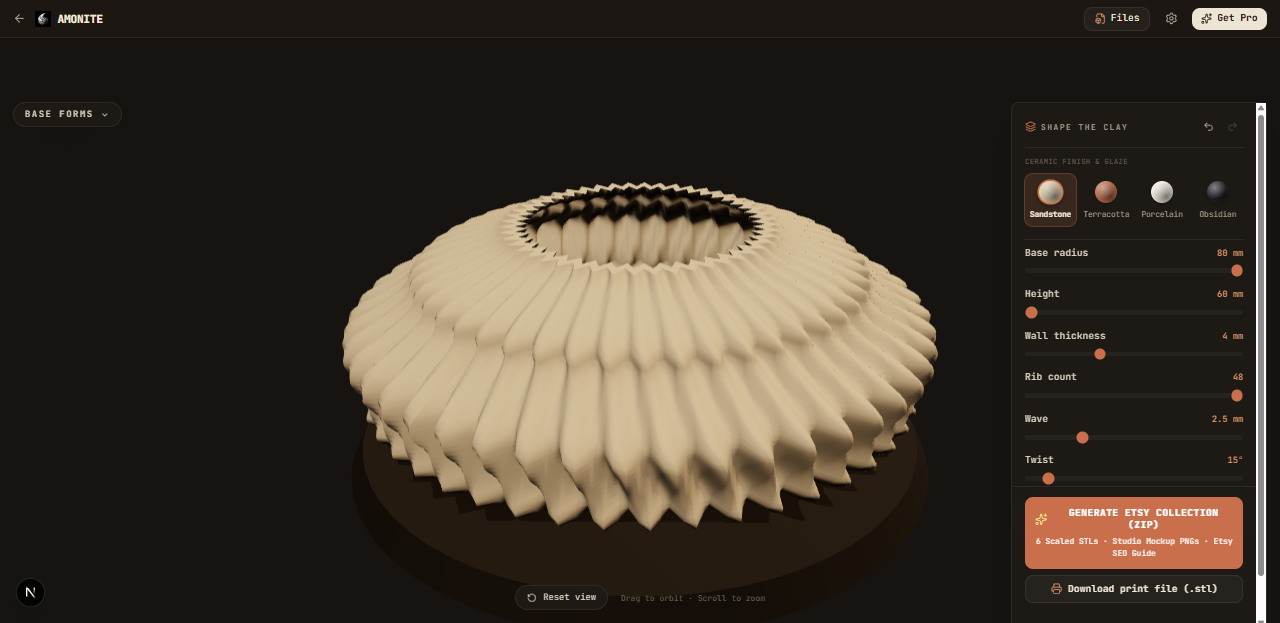
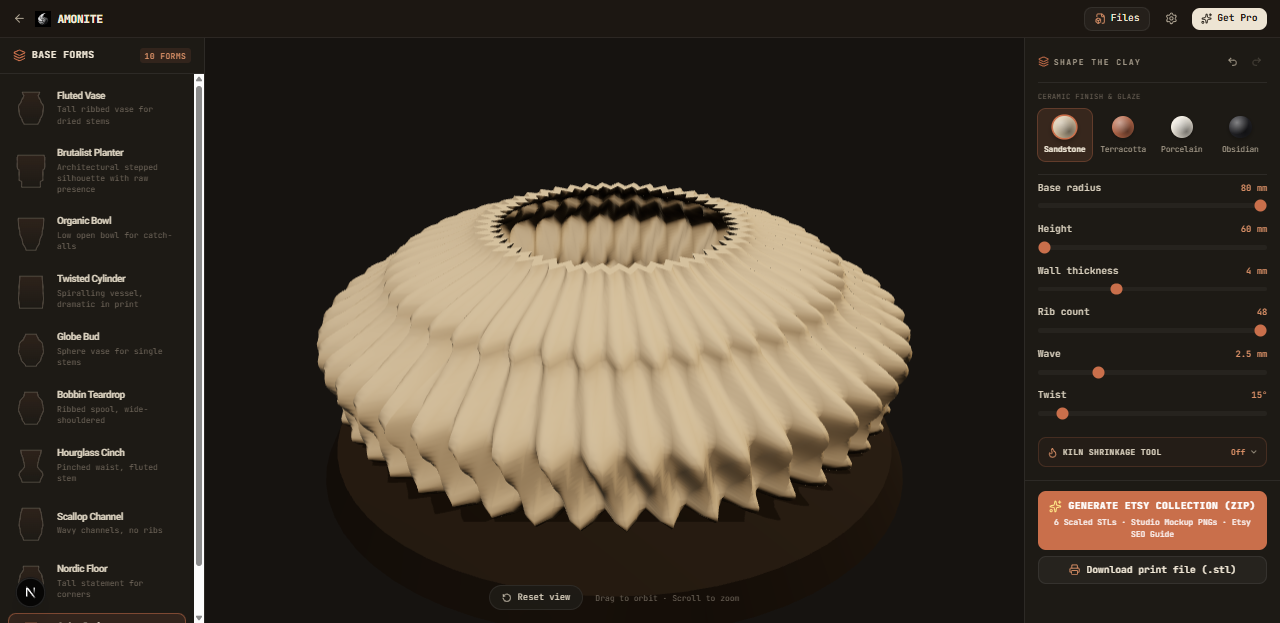
feat(studio): replace floating base forms pill with complete docked left sidebar

diff --git a/src/components/cad/vessel-archetypes.tsx b/src/components/cad/vessel-archetypes.tsx
@@ -1,7 +1,7 @@
 'use client';
 
-import React, { useState } from 'react';
-import { ChevronDown, ChevronUp } from 'lucide-react';
+import React from 'react';
+import { Layers } from 'lucide-react';
 import { useCADStore } from '@/store/cad-store';
 import { STUDIO_THEME } from '@/lib/studio-theme';
 import { VESSEL_ARCHETYPES, vesselProfileRadius } from '@/lib/vessel-geometry';
@@ -41,7 +41,7 @@ function Silhouette({ archetype, active }: { archetype: VesselArchetype; active:
   return (
     <svg
       viewBox={`0 0 ${W} ${H}`}
-      className="h-14 w-12 shrink-0 drop-shadow-sm transition-transform duration-200 group-hover:scale-105"
+      className="h-12 w-10 shrink-0 drop-shadow-sm transition-transform duration-200 group-hover:scale-105"
       aria-hidden="true"
     >
       <defs>
@@ -70,43 +70,33 @@ export default function VesselArchetypes(): React.JSX.Element {
 
   const vessel = nodes.find((n) => n.id === vesselId);
   const active = vessel?.vessel?.archetype ?? 'fluted-vase';
-  const [isOpen, setIsOpen] = useState(false);
-
-  if (!isOpen) {
-    return (
-      <button
-        type="button"
-        onClick={() => setIsOpen(true)}
-        aria-expanded={false}
-        className="flex items-center gap-2 rounded-full border px-3.5 py-1.5 font-mono text-[11px] shadow-2xl backdrop-blur-md transition-colors"
-        style={{ borderColor: t.hairline, backgroundColor: t.panelBg, color: t.inkSoft }}
-      >
-        <span className="font-semibold uppercase tracking-[0.18em]">Base forms</span>
-        <ChevronDown className="h-3 w-3" />
-      </button>
-    );
-  }
 
   return (
-    <div
-      className="w-60 rounded-lg border p-3 shadow-2xl backdrop-blur-md max-h-[calc(100vh-148px)] overflow-y-auto"
-      style={{ backgroundColor: t.panelBg, borderColor: t.hairline }}
-    >
-      <button
-        type="button"
-        onClick={() => setIsOpen(false)}
-        aria-expanded={true}
-        className="flex w-full items-center justify-between px-1 pb-2"
+    <div className="flex h-full w-full flex-col font-mono select-none">
+      {/* Sidebar Header */}
+      <div
+        className="flex items-center justify-between border-b px-4 py-3 shrink-0"
+        style={{ borderColor: t.hairline }}
       >
+        <div className="flex items-center gap-2">
+          <Layers className="h-4 w-4" style={{ color: t.accent }} />
+          <span
+            className="text-xs font-bold uppercase tracking-wider"
+            style={{ color: t.ink }}
+          >
+            Base forms
+          </span>
+        </div>
         <span
-          className="font-mono text-[10px] font-semibold uppercase tracking-[0.18em]"
-          style={{ color: t.inkMute }}
+          className="text-[10px] uppercase tracking-wider font-semibold px-1.5 py-0.5 rounded font-mono"
+          style={{ backgroundColor: `${t.accent}1f`, color: t.accentSoft }}
         >
-          Base forms
+          {ORDER.length} forms
         </span>
-        <ChevronUp className="h-3 w-3" style={{ color: t.inkMute }} />
-      </button>
-      <div className="flex flex-col gap-1.5">
+      </div>
+
+      {/* Archetypes List */}
+      <div className="flex-1 overflow-y-auto p-2.5 space-y-1.5 [scrollbar-width:thin]">
         {ORDER.map((key) => {
           const spec = VESSEL_ARCHETYPES[key];
           const isActive = active === key;
@@ -116,24 +106,46 @@ export default function VesselArchetypes(): React.JSX.Element {
               type="button"
               onClick={() => setVesselArchetype(key)}
               aria-pressed={isActive}
-              className="group flex items-center gap-3 rounded-lg px-2.5 py-2 text-left transition-colors"
+              className="group flex w-full items-center gap-3 rounded-lg border p-2 text-left transition-all"
               style={
                 isActive
-                  ? { backgroundColor: `${t.accent}1a`, outline: `1px solid ${t.accent}66` }
-                  : undefined
+                  ? {
+                      backgroundColor: `${t.accent}1f`,
+                      borderColor: `${t.accent}80`,
+                    }
+                  : {
+                      backgroundColor: 'transparent',
+                      borderColor: 'transparent',
+                    }
               }
-              onMouseEnter={(e) => { if (!isActive) e.currentTarget.style.backgroundColor = t.wellBg; }}
-              onMouseLeave={(e) => { if (!isActive) e.currentTarget.style.backgroundColor = 'transparent'; }}
+              onMouseEnter={(e) => {
+                if (!isActive) {
+                  e.currentTarget.style.backgroundColor = t.wellBg;
+                  e.currentTarget.style.borderColor = t.hairline;
+                }
+              }}
+              onMouseLeave={(e) => {
+                if (!isActive) {
+                  e.currentTarget.style.backgroundColor = 'transparent';
+                  e.currentTarget.style.borderColor = 'transparent';
+                }
+              }}
             >
               <Silhouette archetype={key} active={isActive} />
-              <span>
-                <span className="block text-[13px] font-semibold" style={{ color: isActive ? t.ink : t.inkSoft }}>
+              <div className="min-w-0 flex-1">
+                <span
+                  className="block text-xs font-bold tracking-tight truncate font-display"
+                  style={{ color: isActive ? t.ink : t.inkSoft }}
+                >
                   {spec.label}
                 </span>
-                <span className="mt-0.5 block text-[11px] leading-4" style={{ color: t.inkFaint }}>
+                <span
+                  className="mt-0.5 block text-[10px] leading-3.5 line-clamp-2"
+                  style={{ color: t.inkFaint }}
+                >
                   {spec.blurb}
                 </span>
-              </span>
+              </div>
             </button>
           );
         })}

diff --git a/src/app/sandbox/page.tsx b/src/app/sandbox/page.tsx
@@ -145,36 +145,44 @@ export default function SandboxPage() {
       </header>
 
       {/* Main Studio Viewport Area */}
-      <div className="relative flex-1 w-full h-[calc(100vh-48px)] overflow-hidden">
-        {/* Fullscreen 3D Atelier Canvas */}
-        <CADCanvas className="absolute inset-0 z-0" />
-
-        {/* Left Side Base Form Menu */}
-        <div className="absolute top-20 left-4 z-20 hidden md:block">
+      <div className="relative flex-1 w-full h-[calc(100vh-48px)] flex overflow-hidden">
+        {/* Full-Height Left Sidebar: Base Forms Catalog */}
+        <aside
+          className="hidden md:flex w-64 h-full border-r z-20 shrink-0 flex-col backdrop-blur-md"
+          style={{ backgroundColor: t.panelBg, borderColor: t.hairline }}
+        >
           <VesselArchetypes />
+        </aside>
+
+        {/* Center: 3D Studio Stage */}
+        <div className="relative flex-1 h-full min-w-0">
+          <CADCanvas className="absolute inset-0 z-0" />
+
+          {/* Bottom Center Minimal View Bar */}
+          <div className="absolute bottom-4 left-1/2 -translate-x-1/2 z-20 flex items-center gap-2">
+            <button
+              type="button"
+              onClick={() => setCameraPreset('iso')}
+              className="flex items-center gap-2 rounded-full border px-3.5 py-1.5 font-mono text-[11px] shadow-2xl backdrop-blur-md transition-colors"
+              style={{ borderColor: t.hairline, backgroundColor: t.panelBg, color: t.inkSoft }}
+            >
+              <RotateCcw className="h-3 w-3" />
+              <span>Reset view</span>
+            </button>
+
+            <span className="hidden font-mono text-[10px] sm:inline pl-2" style={{ color: t.inkFaint }}>
+              Drag to orbit · Scroll to zoom
+            </span>
+          </div>
         </div>
 
-        {/* Right Side Parametric Studio Panel */}
-        <div className="absolute top-20 right-4 z-20 hidden md:block">
+        {/* Full-Height Right Sidebar: Parametric Shaping Studio */}
+        <aside
+          className="hidden md:flex w-80 h-full border-l z-20 shrink-0 flex-col backdrop-blur-md"
+          style={{ backgroundColor: t.panelBg, borderColor: t.hairline }}
+        >
           <VesselStudio />
-        </div>
-
-        {/* Bottom Center Minimal View Bar */}
-        <div className="absolute bottom-4 left-1/2 -translate-x-1/2 z-20 flex items-center gap-2">
-          <button
-            type="button"
-            onClick={() => setCameraPreset('iso')}
-            className="flex items-center gap-2 rounded-full border px-3.5 py-1.5 font-mono text-[11px] shadow-2xl backdrop-blur-md transition-colors"
-            style={{ borderColor: t.hairline, backgroundColor: t.panelBg, color: t.inkSoft }}
-          >
-            <RotateCcw className="h-3 w-3" />
-            <span>Reset view</span>
-          </button>
-
-          <span className="hidden font-mono text-[10px] sm:inline pl-2" style={{ color: t.inkFaint }}>
-            Drag to orbit · Scroll to zoom
-          </span>
-        </div>
+        </aside>
       </div>
 
       {/* Modals */}

diff --git a/src/app/routes.test.tsx b/src/app/routes.test.tsx
@@ -60,9 +60,6 @@ describe('routes / primary smoke across the app', () => {
     expect(screen.getByText('AMONITE')).toBeInTheDocument();
     expect(screen.getByText('Files')).toBeInTheDocument();
     expect(screen.getByText('Base forms')).toBeInTheDocument();
-    // Presets ship collapsed; the rail toggle reveals them.
-    expect(screen.queryByText('Fluted Vase')).toBeNull();
-    fireEvent.click(screen.getByText('Base forms'));
     expect(screen.getByText('Fluted Vase')).toBeInTheDocument();
     expect(screen.getByText('Shape the clay')).toBeInTheDocument();
     expect(screen.getByText('Reset view')).toBeInTheDocument();
@@ -72,7 +69,6 @@ describe('routes / primary smoke across the app', () => {
   it('sandbox archetype switch reconfigures the vessel', () => {
     resetStore();
     render(<SandboxPage />);
-    fireEvent.click(screen.getByText('Base forms'));
     fireEvent.click(screen.getByText('Organic Bowl'));
     const vessel = useCADStore.getState().nodes.find((n) => n.id === 'vessel-1')!;
     expect(vessel.vessel?.archetype).toBe('organic-bowl');

diff --git a/src/components/cad/vessel-studio.tsx b/src/components/cad/vessel-studio.tsx
@@ -93,8 +93,7 @@ export default function VesselStudio(): React.JSX.Element {
 
   return (
     <div
-      className="w-80 rounded-lg border p-4 shadow-2xl backdrop-blur-md max-h-[calc(100vh-120px)] overflow-y-auto [scrollbar-width:thin]"
-      style={{ backgroundColor: t.panelBg, borderColor: t.hairline }}
+      className="flex h-full w-full flex-col p-4 overflow-y-auto [scrollbar-width:thin] select-none"
     >
       {/* Header bar with undo/redo */}
       <div className="flex items-center justify-between pb-3" style={{ borderBottom: `1px solid ${t.hairline}` }}>
